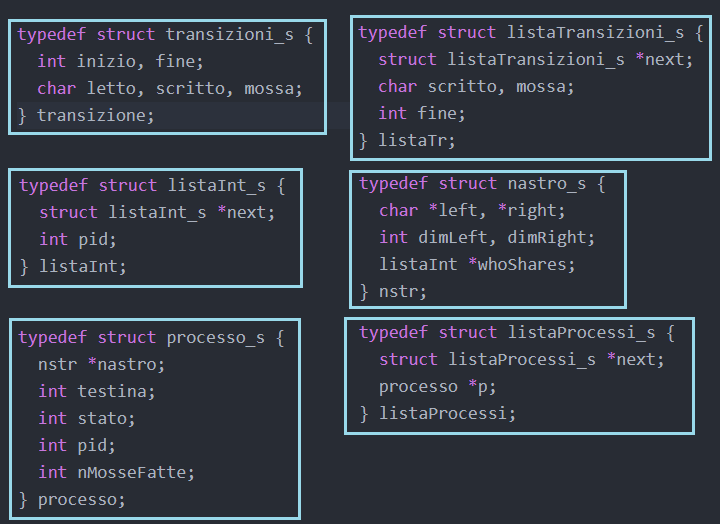
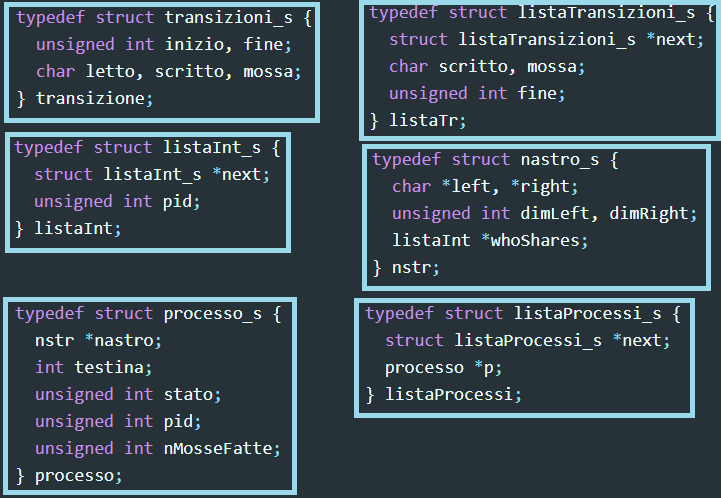
resizing nastro

Changed region(s): [[0.0, 0.0, 0.4583, 0.994], [0.4583, 0.0, 1.0, 0.8434]]

diff --git a/main.c b/main.c
@@ -1,3 +1,5 @@
+#define DIMNASTRO 1024
+
 #include<stdio.h>
 #include<stdlib.h>
 #include<string.h>
@@ -290,7 +292,7 @@ char executeMachine(listaTr **matrice, unsigned int nCaratteriPresenti, bool *st
 	//printf("Inizio esecuzione macchina\n");
 
 	//creazione processo iniziale:
-	nastroInit = createNastroInit(nastroInit, input, max);
+	nastroInit = createNastroInit(nastroInit, input, DIMNASTRO);
 	//printf("Ho creato il nastro per init\n");
 	init = createProcess(init, 0, 0, 0, nastroInit);
 	//printf("Ho creato il processo INIT\n");
@@ -408,14 +410,14 @@ processo *createProcess(processo *p, int testina, unsigned int stato, unsigned i
 	return p;
 }
 
-nstr *createNastroInit(nstr *n, char *stringa, unsigned int max){
+nstr *createNastroInit(nstr *n, char *stringa, unsigned int dimNastro){
 	unsigned int i;
 	n = (nstr *)malloc(sizeof(nstr));
 
-	n->left = (char *)malloc(max * sizeof(char));
-	n->dimLeft = max;
-	n->right = (char *)malloc(max * sizeof(char));
-	n->dimRight = max;
+	n->left = (char *)malloc(dimNastro * sizeof(char));
+	n->dimLeft = dimNastro;
+	n->right = (char *)malloc(dimNastro * sizeof(char));
+	n->dimRight = dimNastro;
 
 	for(i = 0; i < n->dimLeft; i++)
 		(n->left)[i] = '_';
@@ -559,11 +561,19 @@ void scriviSuNastro(processo *p, char toWrite){
 void muoviTestina(processo *p, char mossa){
 	if(mossa == 'R'){
 		(p->testina)++;
+		if(p->testina > 0 && p->testina >=  p->nastro->dimRight){
+			p->nastro->right = (char *)realloc(p->nastro->right, (p->nastro->dimRight * sizeof(char)) * 2);
+			p->nastro->dimRight = (p->nastro->dimRight) * 2;
+		}
 		return;
 	}
 
 	if(mossa == 'L'){
 		(p->testina)--;
+		if(p->testina < 0 && -(p->testina) >=  p->nastro->dimLeft){
+			p->nastro->right = (char *)realloc(p->nastro->right, (p->nastro->dimRight * sizeof(char)) * 2);
+			p->nastro->dimRight = (p->nastro->dimRight) * 2;
+		}
 		return;
 	}
 
